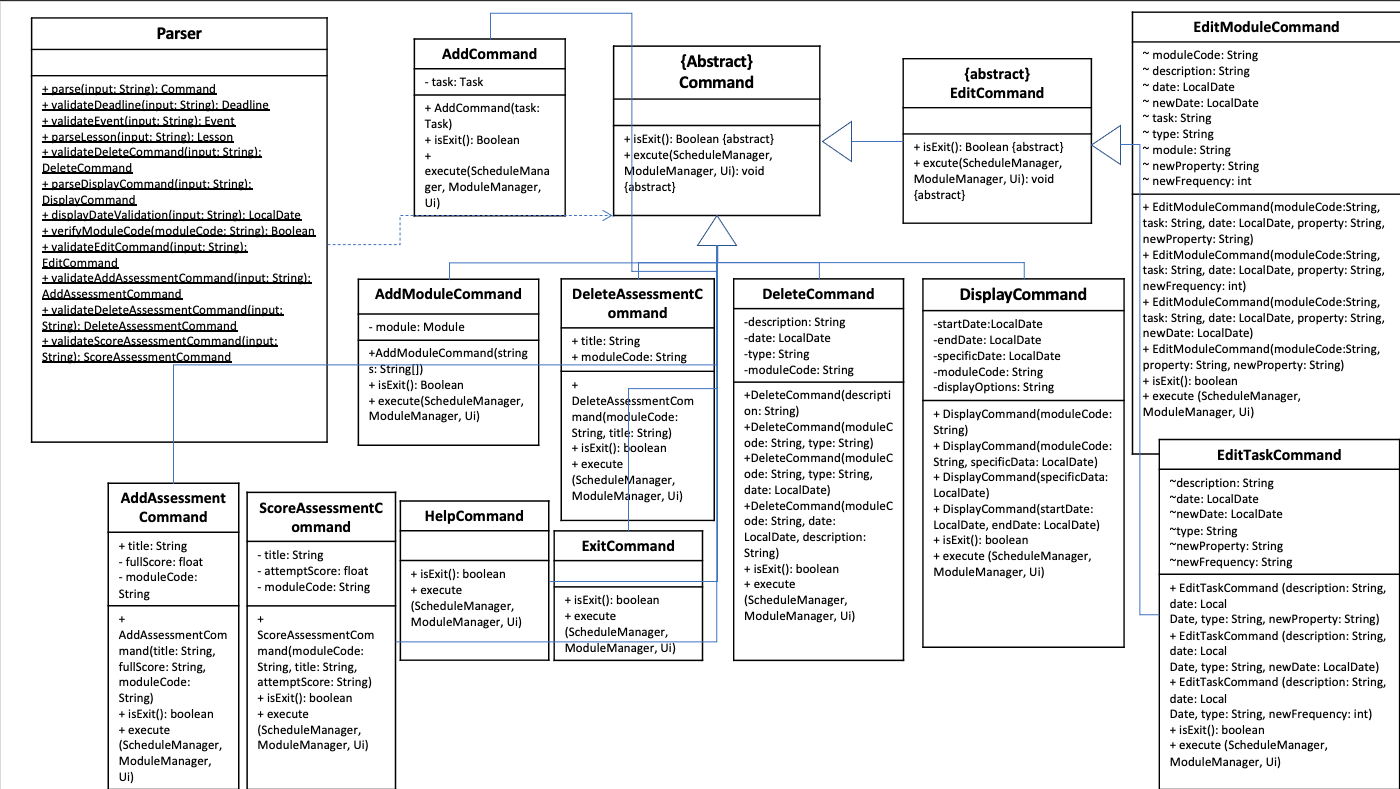
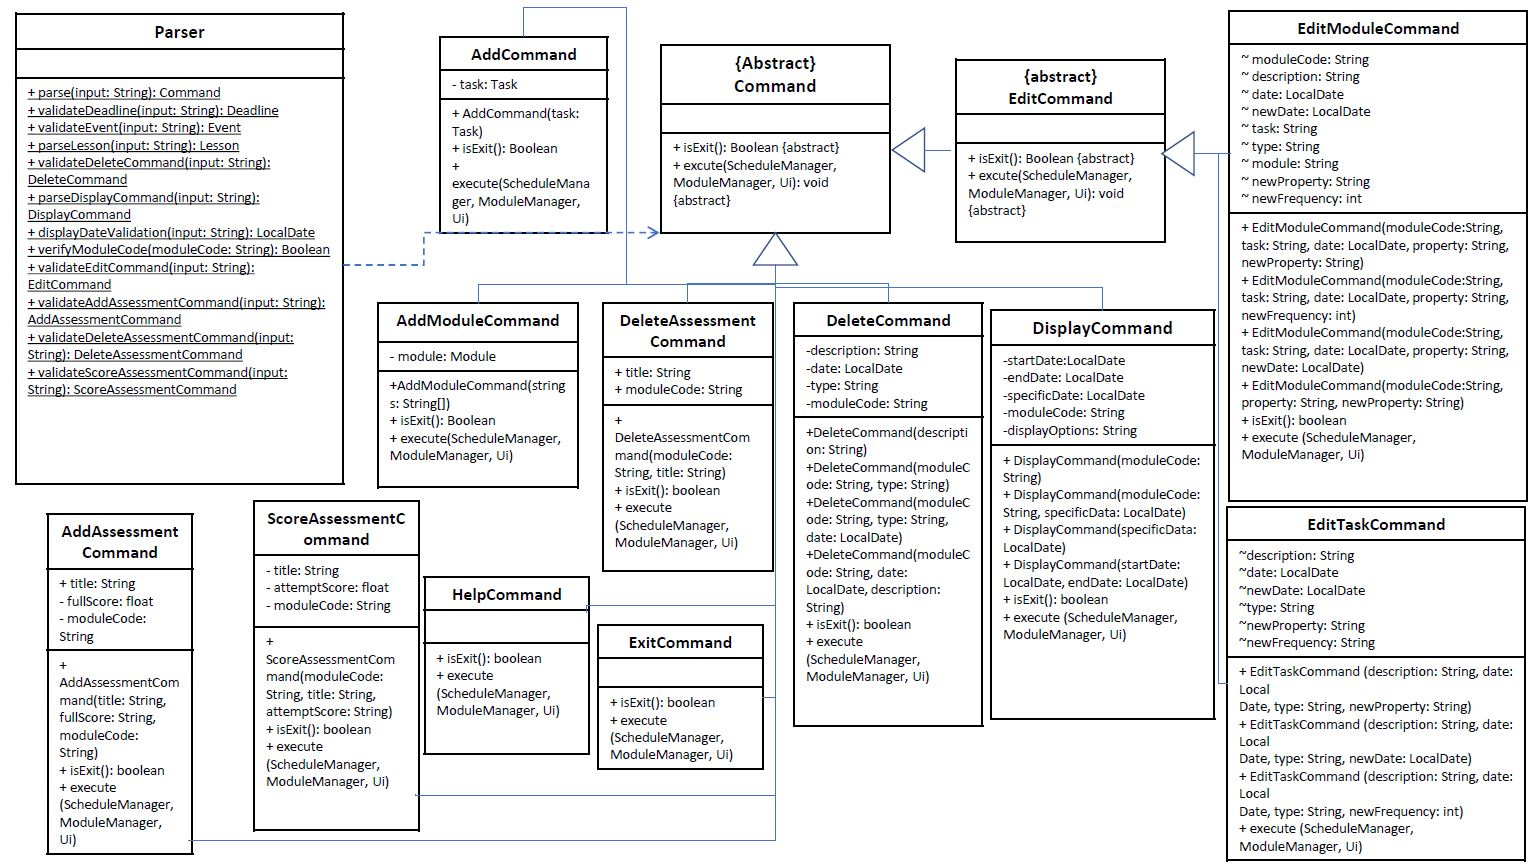
updated

Changed region(s): [[0.0, 0.0, 1.0, 1.0]]

diff --git a/docs/DeveloperGuide.md b/docs/DeveloperGuide.md
@@ -108,10 +108,11 @@ either the `ScheduleManager` or `ModuleManager` or both.
 | `Command` | An Abstract class which is the parent class of all of the commands below. The main method in this class is the `execute()` method, which handles the different executions required depending on the input by the user. |
 | `AddCommand` | A child class of `Command` which helps to execute the feature of adding a `Task` into the `ScheduleManager` and `ModuleManager`. |
 | `AddModuleCommand` | A child class of `Command` which helps to add a `Module` into the `ModuleManager`. |
-| `DeleteCommand` | -- |
+| `DeleteCommand` | A child class of `Command` to execute methods to delete a `Task` and `Module` |
 | `DisplayCommand` | A child class of `Command` which helps to display the list of tasks in a any day stated by the user, or the list of tasks from a `Module` stated by the user. |
-| `EditModuleCommand` | -- |
-| `EditTaskCommand` | -- |
+| `EditCommand` | A child class of `Command` to execute edit methods |
+| `EditModuleCommand` | A child class of `EditCommand` to execute edit methods that has a module code in the input. |
+| `EditTaskCommand` | A child class of `EditCommand`  to execute edit methods without a module code in the input. |
 | `HelpCommand` | A child class of `Command` which helps to provides the list of inputs for the user to know what to type in to use any of the features he wants. |
 | `ExitCommand` | A child class of `Command` which helps to exit the app. |
 | `AddAssessmentCommand` | A child class of `Command` which adds assessment to the module. |

diff --git a/docs/team/acyang97.md b/docs/team/acyang97.md
@@ -33,7 +33,7 @@ See the [RepoSense Dashboard here](https://nus-cs2113-ay2021s1.github.io/tp-dash
     - Helped with drawing of diagram in Architecture Diagram.
     - Wrote and drew diagram in Task component in the Design Component.
     - Helped with writing and drawing of diagram in Command component in the Design Component.
-    - Wrote and drew diagram in Managers component in the Design Component.
+    - Wrote and drew diagram in Managers component in the Design Component, including the design considerations.
     - Wrote and drew diagram in Add Feature in the Implementation Component.
     - Helped with writing of Manual Testing.
    
